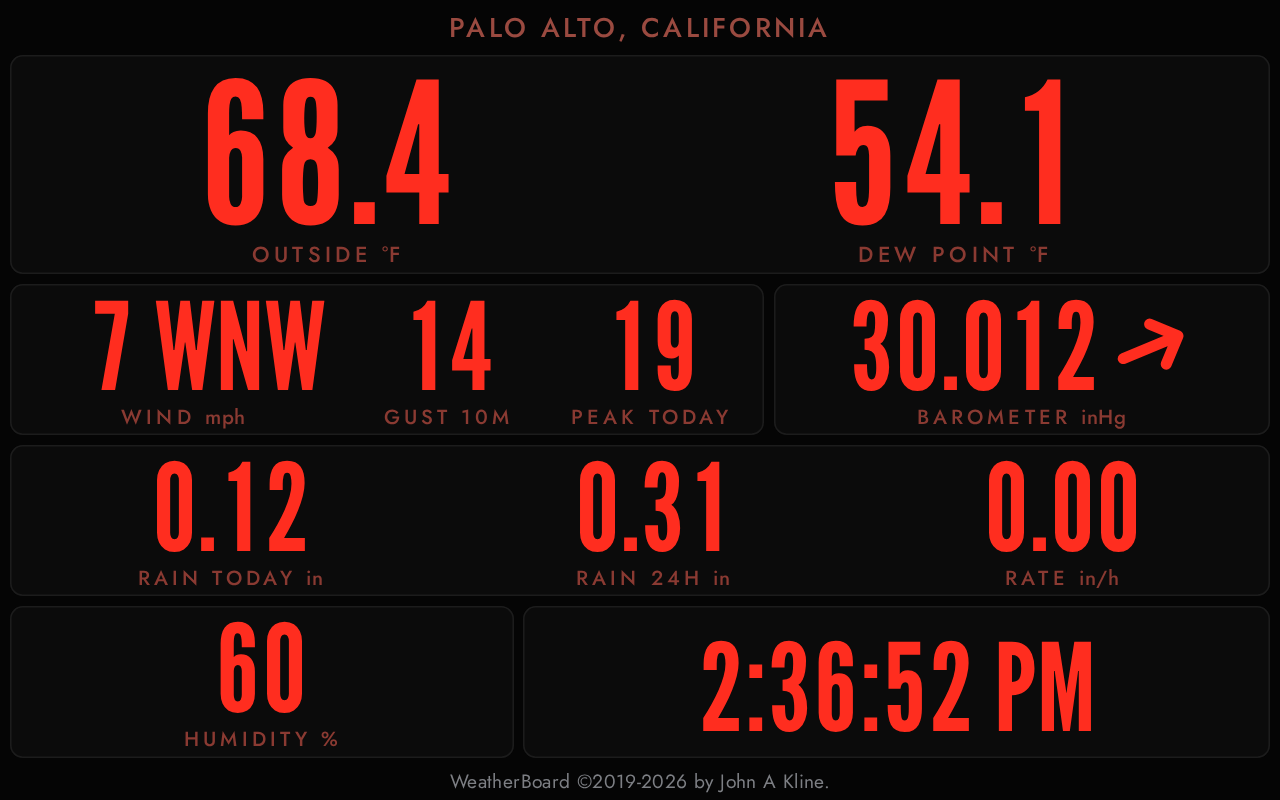
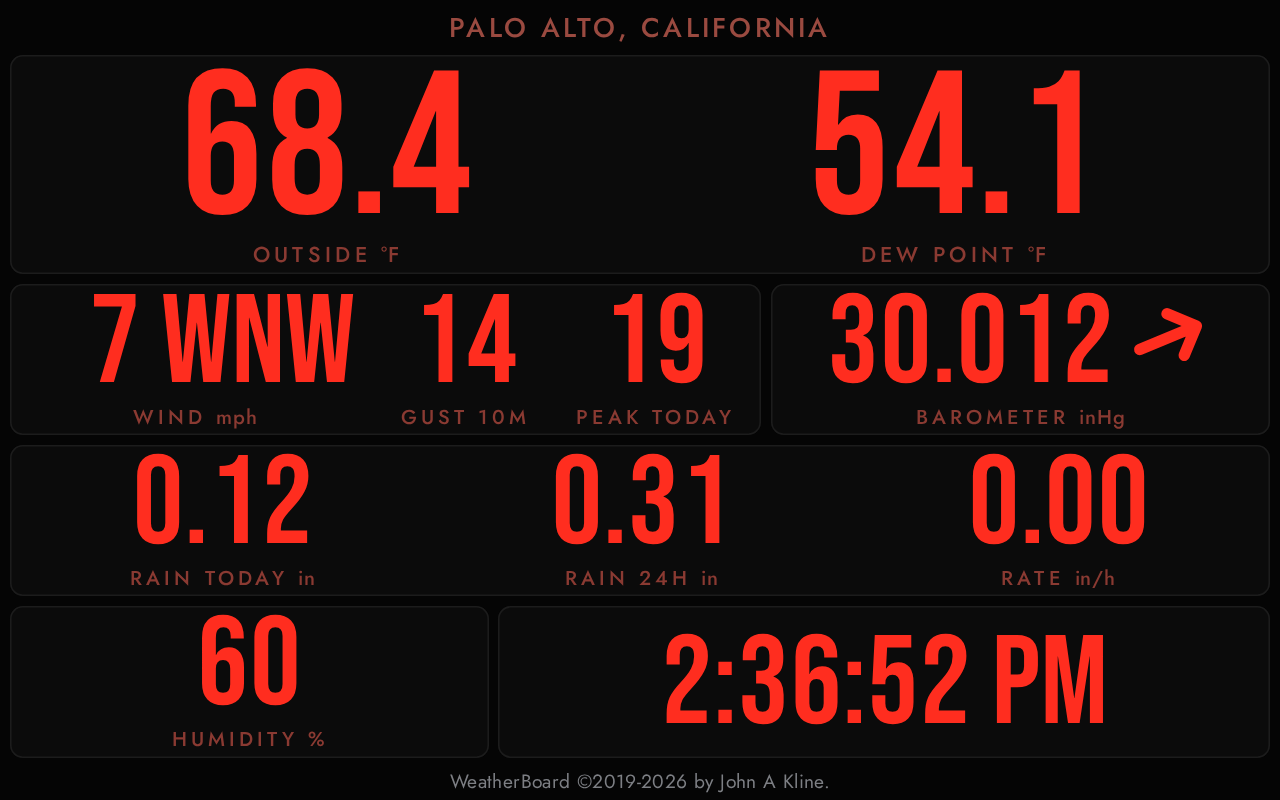
WeatherBoard 5.1.1: the readout board is set in Bebas Neue instead of League Gothic, the trend arrow no longer adds height to the barometer's cell, and the fit ends the same in Chrome whatever order the fonts arrive in; restart WeeWX after upgrading.

diff --git a/skins/WeatherBoard/weatherboard.css b/skins/WeatherBoard/weatherboard.css
@@ -22,8 +22,8 @@
  */
 
 @font-face {
-    font-family: "League Gothic";
-    src: url("fonts/leaguegothic/leaguegothic.woff2") format("woff2");
+    font-family: "Bebas Neue";
+    src: url("fonts/bebasneue/bebasneue.woff2") format("woff2");
 }
 @font-face {
     font-family: "Jost";
@@ -87,29 +87,34 @@ body.readout {
     flex-direction: column;
     align-items: center;
 }
-/* The readings.  League Gothic's 8 stands .743 of its size, so 15.5rem
- * sets figures 11.5rem tall, and the temperatures' 27rem sets them 20rem
+/* The readings.  Bebas Neue's 8 stands .710 of its size, so 16.2rem
+ * sets figures 11.5rem tall, and the temperatures' 28.3rem sets them 20rem
  * tall.  The line is the 8's height and a little over; the padding keeps
- * the tallest letters clear of the panel's edge. */
+ * the tallest letters clear of the panel's edge.  Geometric precision
+ * keeps a figure's width in ems the same at every size: Chrome otherwise
+ * rounds each letter to whole pixels, so a width readout.inc held (roEm)
+ * at one size could be a pixel or two short at the next, and the fit
+ * would end a step apart depending on the size it was measured at. */
 .ro-n {
     position: relative;
-    font-family: "League Gothic", "Arial Narrow", sans-serif;
-    font-size: calc(15.5rem * var(--fit));
-    line-height: .8;
+    font-family: "Bebas Neue", "Arial Narrow", sans-serif;
+    font-size: calc(16.2rem * var(--fit));
+    line-height: .77;
     white-space: pre;
     padding-top: .08em;
+    text-rendering: geometricPrecision;
 }
 #ro-temp .ro-n {
-    font-size: calc(27rem * var(--fit));
+    font-size: calc(28.3rem * var(--fit));
 }
-/* Each digit in a box as wide as the font's widest (.363 of its size),
- * a hair over, so a figure does not shift as its digits change.  A
- * minimum, not a width: every League Gothic digit fits it exactly, and a
- * fallback font's wider digits, should League Gothic never arrive, widen
+/* Each digit in a box as wide as the font's digits (.400 of its size, all
+ * one width), a hair over, so a figure does not shift as its digits
+ * change.  A minimum, not a width: every Bebas Neue digit fits it, and a
+ * fallback font's wider digits, should Bebas Neue never arrive, widen
  * their boxes rather than run into one another. */
 .ro-d {
     display: inline-block;
-    min-width: .383em;
+    min-width: .42em;
     text-align: center;
 }
 /* With no data the decimal point is dimmed. */
@@ -119,8 +124,12 @@ body.readout {
 .ro-v {
     position: relative;
 }
-/* The trend arrow beside the barometer.  Its line takes no height, or it
- * would make the barometer's cell taller than the figure. */
+/* The trend arrow beside the barometer.  Neither its line nor the arrow
+ * takes any height, or it would make the barometer's cell taller than the
+ * figure, and the cell would shrink when the arrow goes: a line of .77em
+ * reaches less than .715em above the baseline in some fonts, Bebas Neue
+ * among them.  The arrow's negative top margin, its own height, leaves it
+ * drawn where it stands on the baseline but counted as nothing. */
 .ro-t {
     font-family: "Jost", sans-serif;
     font-size: .55em;
@@ -131,6 +140,7 @@ body.readout {
 .ro-trend {
     width: 1.3em;
     height: 1.3em;
+    margin-top: -1.3em;
     vertical-align: 0;
 }
 .ro-l {
@@ -189,7 +199,7 @@ body.readout {
     position: absolute;
     visibility: hidden;
     white-space: pre;
-    font: 100px/1 "League Gothic", "Arial Narrow", sans-serif;
+    font: 100px/1 "Bebas Neue", "Arial Narrow", sans-serif;
 }
 .ro-foot {
     text-align: center;

diff --git a/tests/browser_check.py b/tests/browser_check.py
@@ -25,7 +25,7 @@ What it holds the boards to:
     measured in pixels against the digits that stood there; on the
     split-flap board, question marks with a blank flap for the decimal
     point
-  - the readings are set in League Gothic, loaded from the skin, and the
+  - the readings are set in Bebas Neue, loaded from the skin, and the
     font has every character the status line and the wind directions use
     in every language
   - the split-flap lamps light for gusts, low and high pressure, rain, and
@@ -224,16 +224,21 @@ def check_readout(browser):
         failures.append('the air quality reading is not in its level color')
     if b.page.evaluate("!!document.querySelector('#ro-b .ro-trend')") is not True:
         failures.append('the barometer has no trend arrow')
-    # The readings are in League Gothic, fetched from the skin: a font the
+    # The arrow takes no height: were the barometer's cell taller for it,
+    # the row would fit differently with the arrow than without.
+    heights = b.page.evaluate("['#ro-b', '#ro-w'].map(c => document.querySelector(c + ' .ro-n').getBoundingClientRect().height)")
+    if abs(heights[0] - heights[1]) > .5:
+        failures.append('the barometer with its trend arrow is %.1f px tall, the wind beside it %.1f' % tuple(heights))
+    # The readings are in Bebas Neue, fetched from the skin: a font the
     # stylesheet names at a path that is not there leaves the board in
     # whatever fallback the tablet has.
     b.page.evaluate('document.fonts.ready')
-    faces = b.page.evaluate("[...document.fonts].filter(f => f.family.replace(/\"/g, '') === 'League Gothic')"
+    faces = b.page.evaluate("[...document.fonts].filter(f => f.family.replace(/\"/g, '') === 'Bebas Neue')"
                             ".map(f => f.status)")
     if faces != ['loaded']:
-        failures.append('League Gothic is %s, not loaded' % (faces or 'not declared'))
-    if 'League Gothic' not in b.page.evaluate("getComputedStyle(document.querySelector('#ro-t .ro-n')).fontFamily"):
-        failures.append('the readings are not set in League Gothic')
+        failures.append('Bebas Neue is %s, not loaded' % (faces or 'not declared'))
+    if 'Bebas Neue' not in b.page.evaluate("getComputedStyle(document.querySelector('#ro-t .ro-n')).fontFamily"):
+        failures.append('the readings are not set in Bebas Neue')
     fresh = ro_digits(b)
 
     # Aging, then old: the age on the status line, every reading dashes
@@ -428,7 +433,7 @@ def check_readout_widths(browser):
 
 
 def check_readout_no_font(browser):
-    """League Gothic never arrives -- not yet synced to the web server, or
+    """Bebas Neue never arrives -- not yet synced to the web server, or
     blocked: the figures fall back to a wider face, and each digit's box
     widens to hold its digit rather than letting it run into the next."""
     failures = []
@@ -438,7 +443,7 @@ def check_readout_no_font(browser):
     b.page = browser.new_page(viewport={'width': 1280, 'height': 800})
 
     def route(r, request):
-        if request.url.endswith('leaguegothic.woff2'):
+        if request.url.endswith('bebasneue.woff2'):
             return r.fulfill(status=404, body='')
         return b.server.handle(r, request)
     b.page.route('**/*', route)
@@ -447,22 +452,22 @@ def check_readout_no_font(browser):
     spill = b.page.evaluate("[...document.querySelectorAll('.ro-d')].filter(d => d.scrollWidth > d.clientWidth)"
                             ".map(d => d.closest('.ro-c').id)")
     if spill:
-        failures.append('with no League Gothic, digits spill out of their boxes in %s' % sorted(set(spill)))
+        failures.append('with no Bebas Neue, digits spill out of their boxes in %s' % sorted(set(spill)))
     for p in b.page.evaluate(RO_FIT):
-        failures.append('with no League Gothic, %s overflows' % p)
+        failures.append('with no Bebas Neue, %s overflows' % p)
     b.close()
     return failures
 
 
 def check_font_covers(browser):
-    """Every character the readout board sets in League Gothic, in every
+    """Every character the readout board sets in Bebas Neue, in every
     language, is in the font: the status words, the wind directions, the
     clock's AM and PM, the digits, the decimal point, the colon and the
     minus sign.  A character it lacks would be drawn in whatever face the
     tablet falls back to.  (Read from the font itself: a browser shows no
     sign of a fallback it made.)"""
     from fontTools.ttLib import TTFont
-    cmap = TTFont(os.path.join(SKIN, 'fonts', 'leaguegothic', 'leaguegothic.woff2')).getBestCmap()
+    cmap = TTFont(os.path.join(SKIN, 'fonts', 'bebasneue', 'bebasneue.woff2')).getBestCmap()
     need = set('0123456789.:/− AMP')
     for lang in ct.LANGS:
         conf = ct.lang_texts(lang)
@@ -471,7 +476,7 @@ def check_font_covers(browser):
         need |= set(''.join(conf['Units']['Ordinates']['directions'][:16]).upper())
     missing = sorted(ch for ch in need if ord(ch) not in cmap)
     if missing:
-        return ['League Gothic has no %s' % ', '.join('%r (U+%04X)' % (ch, ord(ch)) for ch in missing)]
+        return ['Bebas Neue has no %s' % ', '.join('%r (U+%04X)' % (ch, ord(ch)) for ch in missing)]
     return []
 
 
@@ -737,7 +742,7 @@ def check_readout_without_font_api(browser):
 def check_readout_late_font(browser):
     """Each of the readout board's fonts held back until the board has
     painted in a fallback: once it arrives the board fits again, and ends
-    where a board that had its fonts from the start does.  League Gothic
+    where a board that had its fonts from the start does.  Bebas Neue
     sets the readings and Jost the labels; the fit measures both, so each
     is held alone.  Dutch, whose labels run longest, and readings too wide
     for the design, so the fit has rows to shrink."""
@@ -748,7 +753,7 @@ def check_readout_late_font(browser):
     ref.page.evaluate('new Promise(r => requestAnimationFrame(() => requestAnimationFrame(r)))')
     want = ref.page.evaluate(FITS)
     ref.close()
-    for font in ('leaguegothic.woff2', 'jost.woff2'):
+    for font in ('bebasneue.woff2', 'jost.woff2'):
         held = []
         b = Board.__new__(Board)
         b.server = Server(ct.render('index.html.tmpl', analytics=False, lang='nl', overrides={'refresh_rate': '1'}))
@@ -783,7 +788,7 @@ def check_readout_late_font(browser):
 def check_font_late_without_load(browser):
     """Without document.fonts, with the analytics script hung so window
     load never comes, and each board's font held back eight seconds: the
-    readout board still ends fitted to League Gothic, and the split-flap
+    readout board still ends fitted to Bebas Neue, and the split-flap
     board refits to Jost once it arrives.  Both pages load together and the
     fonts are released from here, so the wait is paid once."""
     failures = []
@@ -809,7 +814,7 @@ def check_font_late_without_load(browser):
     ro.errors = []
     ro.page = browser.new_page(viewport={'width': 1024, 'height': 768})
     ro.page.add_init_script(NO_FONT_API)
-    ro.page.route('**/*', holding(ro.server.handle, 'leaguegothic.woff2'))
+    ro.page.route('**/*', holding(ro.server.handle, 'bebasneue.woff2'))
     texts = ct.lang_texts('en')
     texts['Texts']['BAROMETER'] = 'ATMOSPHERIC PRESSURE AT SEA LEVEL'
     real = ct.lang_texts
@@ -832,7 +837,7 @@ def check_font_late_without_load(browser):
     ro.page.wait_for_timeout(max(0, 7000 - (time.time() - start) * 1000))
     early = ro.page.evaluate(FITS)
     if early == want:
-        failures.append('the fallback font fit the board just as League Gothic does: the test proves nothing')
+        failures.append('the fallback font fit the board just as Bebas Neue does: the test proves nothing')
     ro.page.wait_for_timeout(max(0, 8000 - (time.time() - start) * 1000))
     for r, handle in held:
         handle(r, r.request)
@@ -1061,10 +1066,10 @@ def main():
                          ('a file that stops changing goes stale', check_frozen_file),
                          ('the split-flap board: rows, lamps, missing data, failures', check_flap),
                          ('the clock and status line in other languages', check_languages),
-                         ('League Gothic has every character the status line and wind use', check_font_covers),
+                         ('Bebas Neue has every character the status line and wind use', check_font_covers),
                          ('the readout board fits again as each of its fonts arrives', check_readout_late_font),
                          ('a wider wind direction refits the board; a narrower one moves nothing', check_readout_widths),
-                         ('with no League Gothic, each digit keeps to its own box', check_readout_no_font),
+                         ('with no Bebas Neue, each digit keeps to its own box', check_readout_no_font),
                          ('both boards fit every screen size, metric and in Dutch', check_fit),
                          ('the split-flap board refits once its font has loaded', check_flap_late_font),
                          ('without document.fonts, window load or not: the readout and split-flap refits',

diff --git a/install.py b/install.py
@@ -167,7 +167,7 @@ def installer_config():
 class WeatherBoardInstaller(ExtensionInstaller):
     def __init__(self):
         super(WeatherBoardInstaller, self).__init__(
-            version = "5.1",
+            version = "5.1.1",
             name = 'weatherboard',
             description = 'WeatherBoard skin.',
             author = "John A Kline",
@@ -190,9 +190,9 @@ class WeatherBoardInstaller(ExtensionInstaller):
             ]), ('skins/WeatherBoard/fonts/jost', [
                 'skins/WeatherBoard/fonts/jost/jost.woff2',
                 'skins/WeatherBoard/fonts/jost/license.txt',
-            ]), ('skins/WeatherBoard/fonts/leaguegothic', [
-                'skins/WeatherBoard/fonts/leaguegothic/leaguegothic.woff2',
-                'skins/WeatherBoard/fonts/leaguegothic/license.txt',
+            ]), ('skins/WeatherBoard/fonts/bebasneue', [
+                'skins/WeatherBoard/fonts/bebasneue/bebasneue.woff2',
+                'skins/WeatherBoard/fonts/bebasneue/license.txt',
             ]), ('skins/WeatherBoard/lang', [
                 'skins/WeatherBoard/lang/da.conf',
                 'skins/WeatherBoard/lang/de.conf',

diff --git a/tests/check_templates.py b/tests/check_templates.py
@@ -28,7 +28,7 @@ nothing reads is rendered on every loop packet for nobody.
 And it holds the language files to the pages: en.conf carries exactly the
 strings the pages render, every other language carries all of them and
 nothing else, and the strings the boards draw in their own lettering fit
-the split-flap board's twelve flaps.  (That League Gothic, the readout
+the split-flap board's twelve flaps.  (That Bebas Neue, the readout
 board's lettering, has every letter they use is read from the font by
 tests/browser_check.py, which has fontTools.)
 

diff --git a/docs/upgrading.md b/docs/upgrading.md
@@ -30,6 +30,18 @@ upgrade.  Customizations belong in the report's stanza in `weewx.conf`
 (`[[[Extras]]]`, `[[[Labels]]]` and `[[[Units]]]` entries survive
 upgrades); edits made directly to the shipped skin files do not.
 
+## Upgrading to 5.1.1
+
+**Restart WeeWX after upgrading.**  The readout board's readings are now
+set in Bebas Neue, and the new stylesheet and font are copied to the web
+server only on the first report after weewxd starts.  Until you restart,
+the board is drawn with 5.1's stylesheet, in League Gothic.
+
+Nothing in `weewx.conf` needs changing.  An upgrade leaves behind the
+`fonts/leaguegothic` folder 5.1 installed, in `skins/WeatherBoard/` and in
+the board's web directory.  Delete it whenever it suits you, or leave it;
+nothing reads it.
+
 ## Upgrading to 5.1
 
 **Restart WeeWX after upgrading.**  `index.html` is now the readout board,
@@ -51,7 +63,7 @@ on anything older.  A station staying on WeeWX 4, or on 5.0 or 5.1, can
 stay on WeatherBoard 4.2, which goes on working with LoopData 7.
 
 The board is new: a board of tall figures at `index.html` (the LED board
-in 5.0, set in League Gothic since 5.1 as the readout board), and a
+in 5.0, the readout board since 5.1), and a
 split-flap departure board beside it at `splitflap.html`.  A tablet
 already pointed at the board shows the readout board after the upgrade;
 point it at

diff --git a/changes.md b/changes.md
@@ -1,5 +1,22 @@
 # weewx-weatherboard change history
 
+## 5.1.1 09/24/2026
+- Action required: restart WeeWX after upgrading.  The stylesheet and the
+  new font reach the web server only on the first report after weewxd
+  starts, and until then index.html is served with 5.1's stylesheet and
+  drawn in League Gothic.
+- index.html's readings are set in Bebas Neue instead of League Gothic:
+  rounder and a little wider, at the same height.  With everyday
+  readings the board comes out the same size, or a step smaller; a row
+  whose readings already fill their panels' width, such as long rain
+  totals, fits about an eighth smaller.  An upgrade leaves behind the
+  fonts/leaguegothic folder 5.1 installed, in the skin and in the web
+  directory.  Nothing uses it, and it can be deleted.
+- The readout board fits to the same size in Chrome whatever order its
+  fonts arrive in.  Chrome drew each letter to whole pixels, so a width the
+  board had held at one size could be a pixel or two short at the next,
+  and the fit could end a step apart.
+
 ## 5.1 09/24/2026
 - Action required: restart WeeWX after upgrading.  The stylesheet and the
   new font reach the web server only on the first report after weewxd

diff --git a/README.md b/README.md
@@ -242,9 +242,9 @@ staleness is measured, and troubleshooting.
 
 weewx-weatherboard is licensed under the GNU Public License v3.
 
-The readout board's figures are set in League Gothic, Copyright 2010 The
-League Gothic Project Authors, under the SIL Open Font License in
-`skins/WeatherBoard/fonts/leaguegothic/license.txt`.  Its labels, and the
+The readout board's figures are set in Bebas Neue, Copyright 2010 Dharma
+Type, under the SIL Open Font License in
+`skins/WeatherBoard/fonts/bebasneue/license.txt`.  Its labels, and the
 split-flap board's lettering, are Jost, Copyright 2020 The Jost Project
 Authors, under the SIL Open Font License in
 `skins/WeatherBoard/fonts/jost/license.txt`.

diff --git a/docs/troubleshooting.md b/docs/troubleshooting.md
@@ -160,7 +160,7 @@ whose observation is not in the loop packet.  Look in the
 
 ## A status word has a letter in the wrong typeface on the readout board
 
-The readout board sets the status line in League Gothic, which has the
+The readout board sets the status line in Bebas Neue, which has the
 Latin letters and the accented capitals of the Western European
 languages.  A `[[[Texts]]]` override in `weewx.conf` that uses any other
 letter draws it in whatever typeface the tablet falls back to.  See

diff --git a/docs/configuration.md b/docs/configuration.md
@@ -249,7 +249,7 @@ The stanza outranks the language file, and unlike the skin it survives an
 upgrade.
 
 {: .note }
-The readout board sets its status words in League Gothic, which has the
+The readout board sets its status words in Bebas Neue, which has the
 Latin letters and the accented capitals of the Western European
 languages.  A status word reworded with a letter outside that set is
 drawn in whatever typeface the tablet falls back to.  The labels under

diff --git a/docs/reading-the-board.md b/docs/reading-the-board.md
@@ -26,7 +26,7 @@ if one is set.  A title too long for the screen ends in an ellipsis.
 
 ![The readout board](images/ReadoutBoard.png)
 
-Every reading is set in League Gothic, a tall, narrow typeface, so the
+Every reading is set in Bebas Neue, a tall, narrow typeface, so the
 figures stand as tall as the panels allow and read from across the room.
 The panels, top to bottom, with the LoopData field behind each reading:
 
